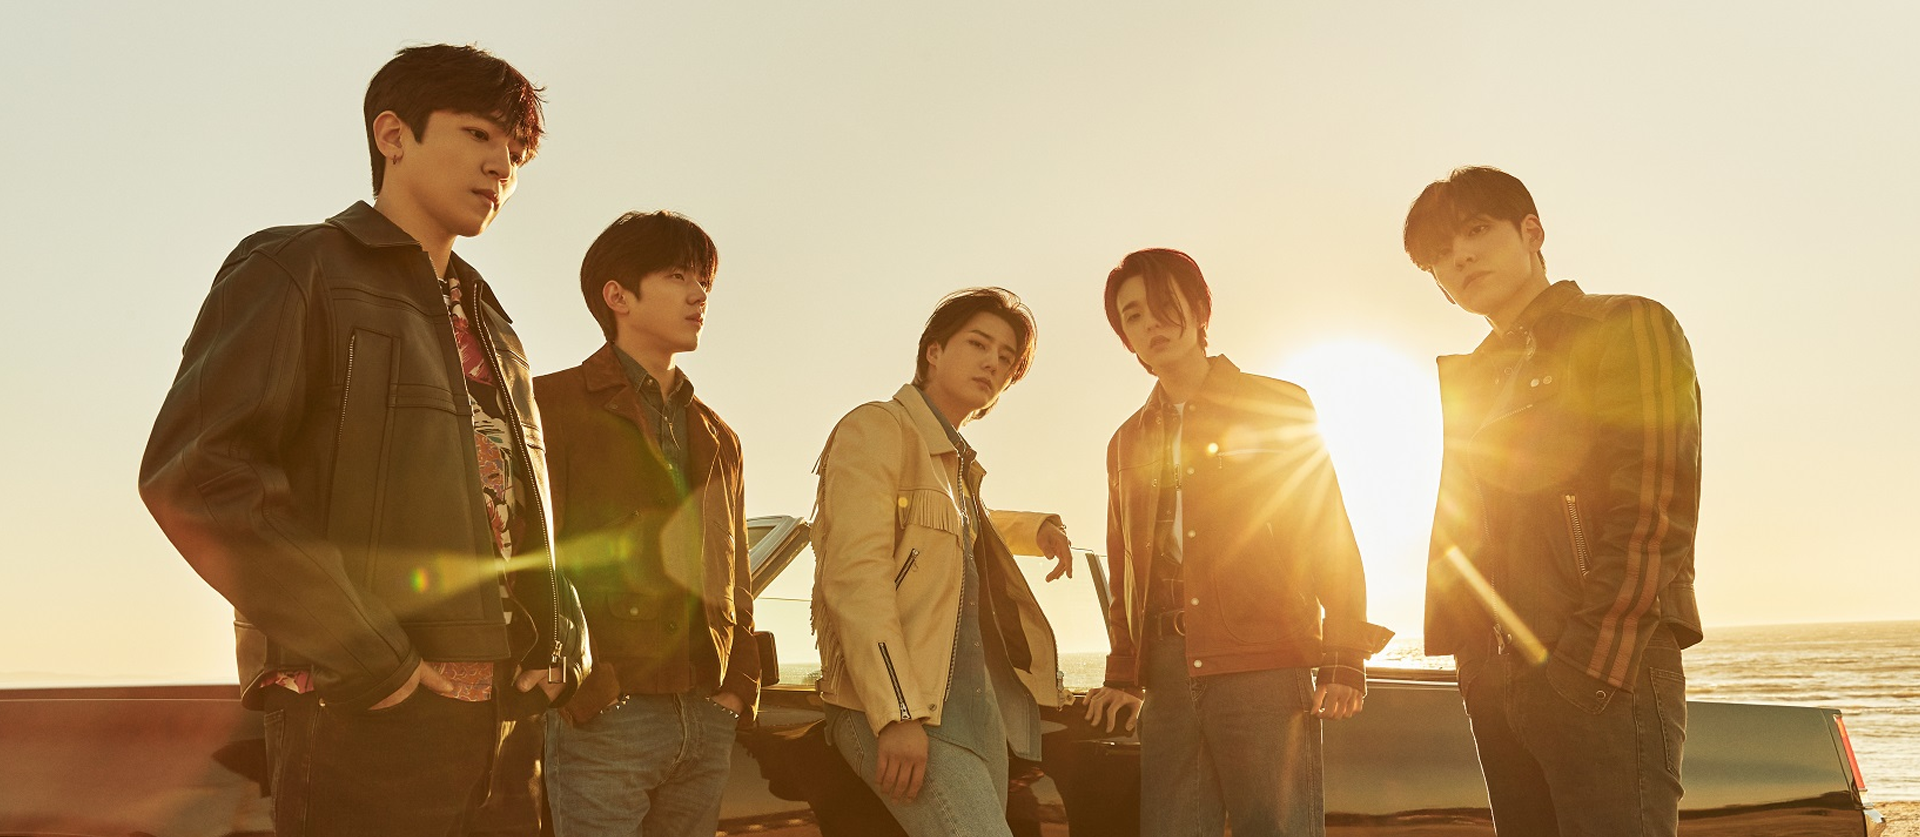
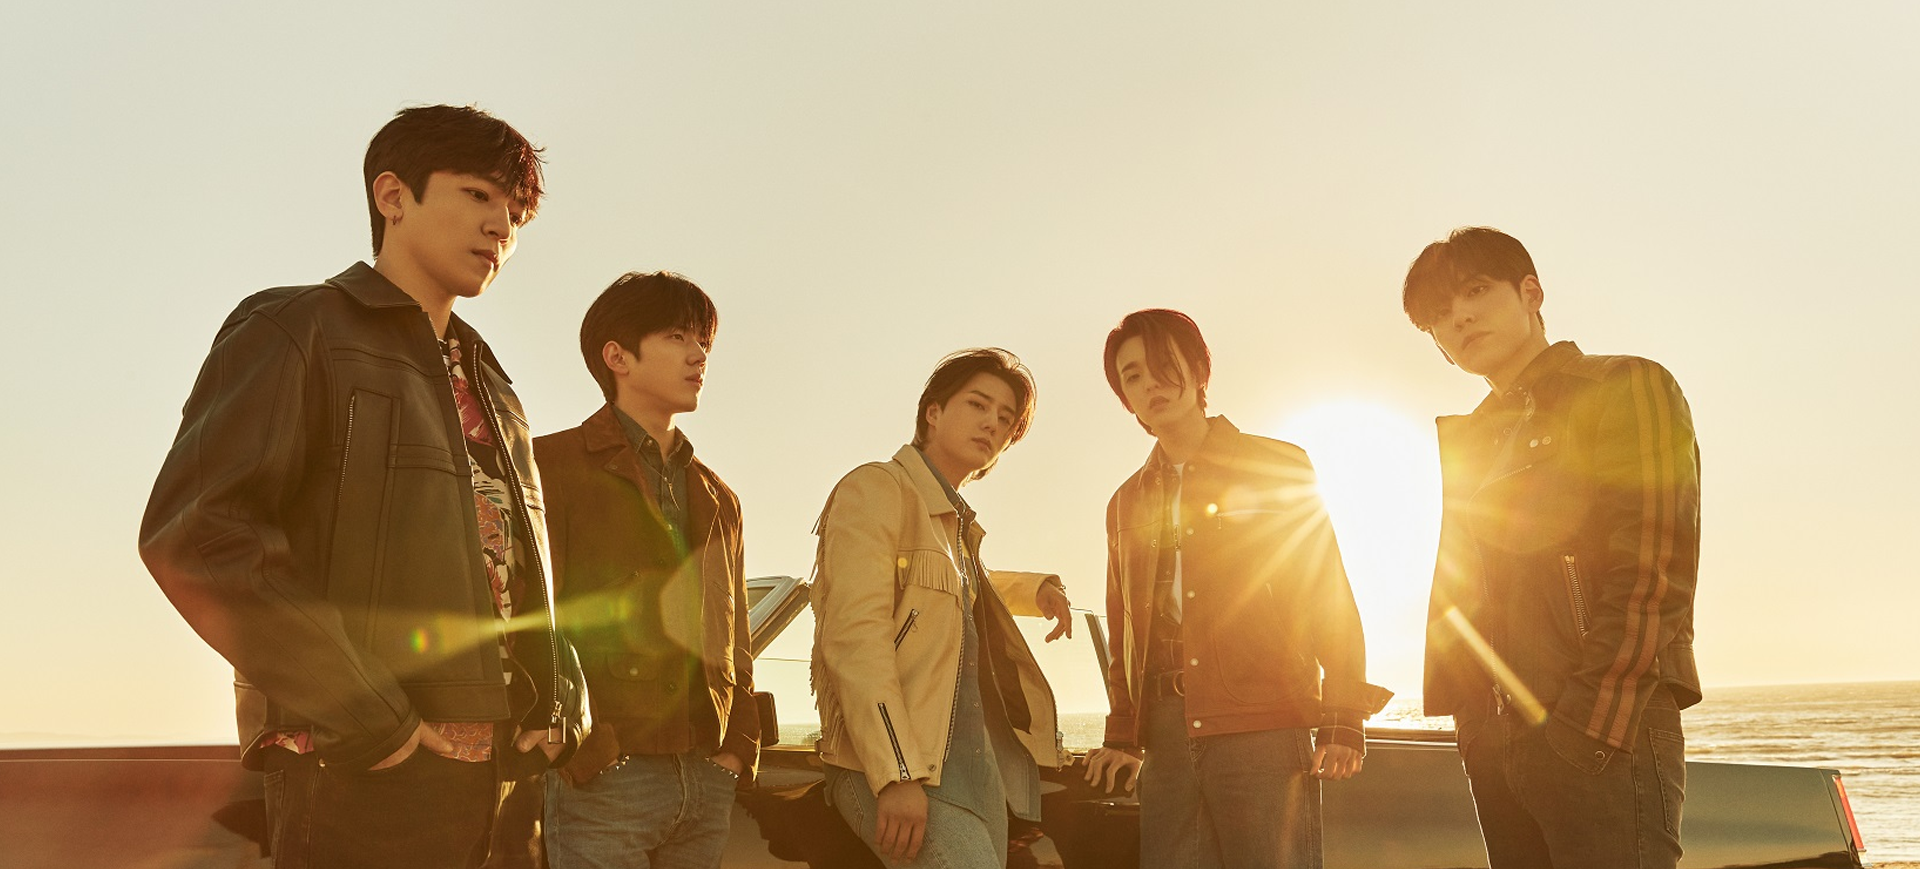
메인 사진 수정

Changed region(s): [[0.0, 0.0311, 1.0, 1.0], [0.125, 0.5591, 0.1562, 0.5902]]

diff --git a/docs/resource/common.css b/docs/resource/common.css
@@ -145,7 +145,7 @@ body {
 /* 홈 */
 .img-list .swiper-slide {
   width:1920px;
-  height:800px;
+  height:869px;
   margin-top:100px;
 }
 

diff --git a/resource/common.css b/resource/common.css
@@ -145,7 +145,7 @@ body {
 /* 홈 */
 .img-list .swiper-slide {
   width:1920px;
-  height:800px;
+  height:869px;
   margin-top:100px;
 }
 
